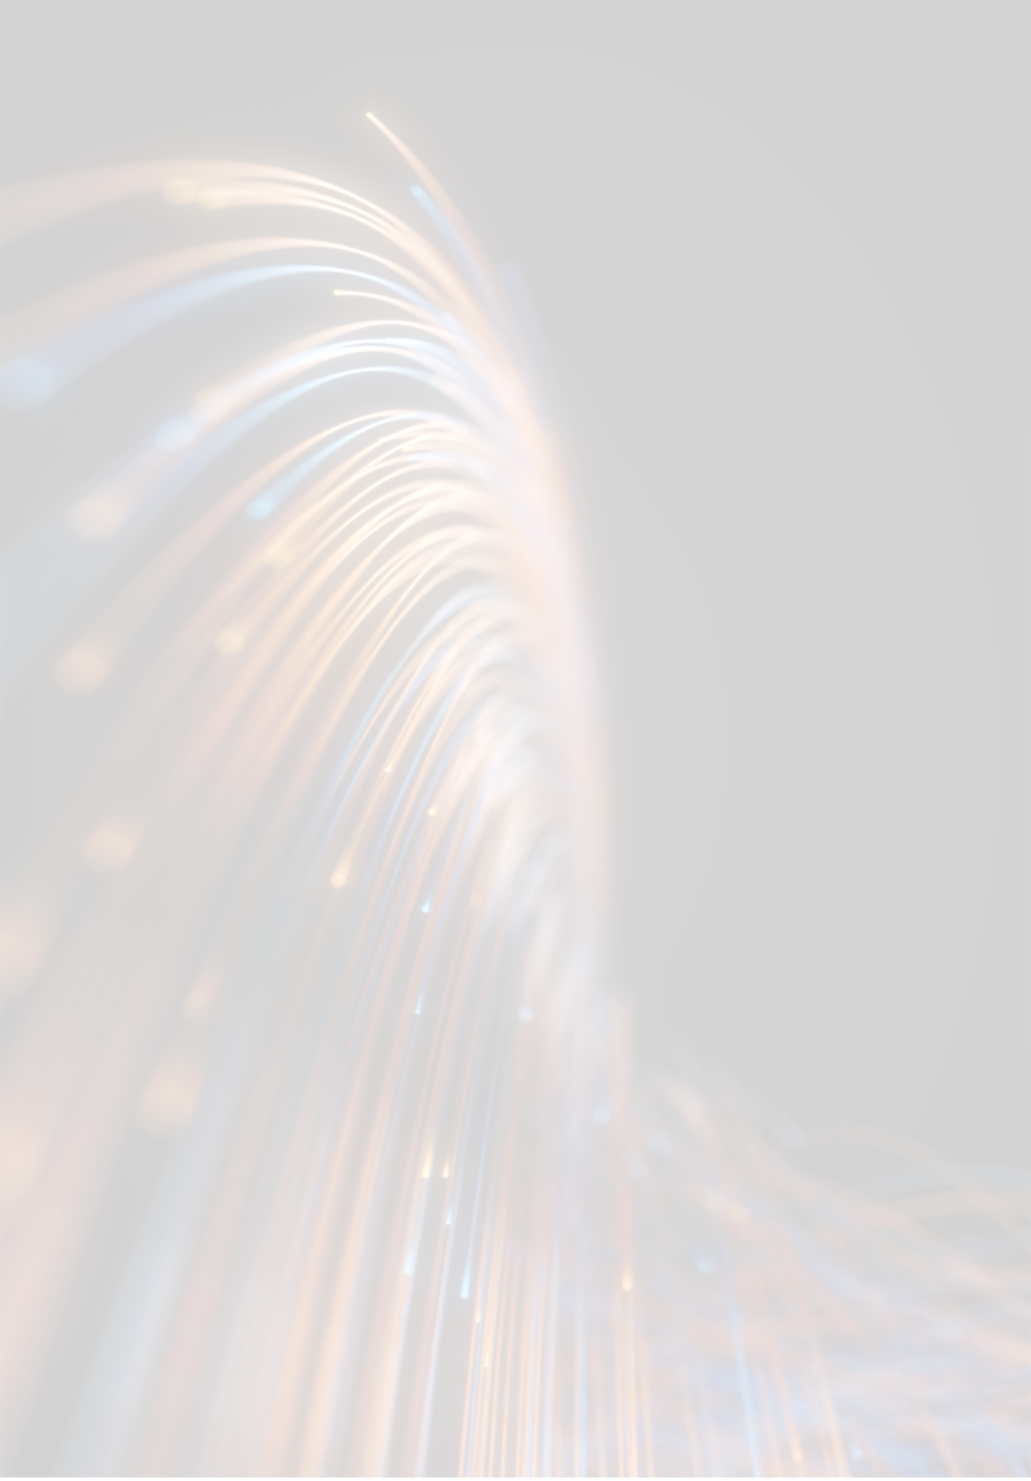
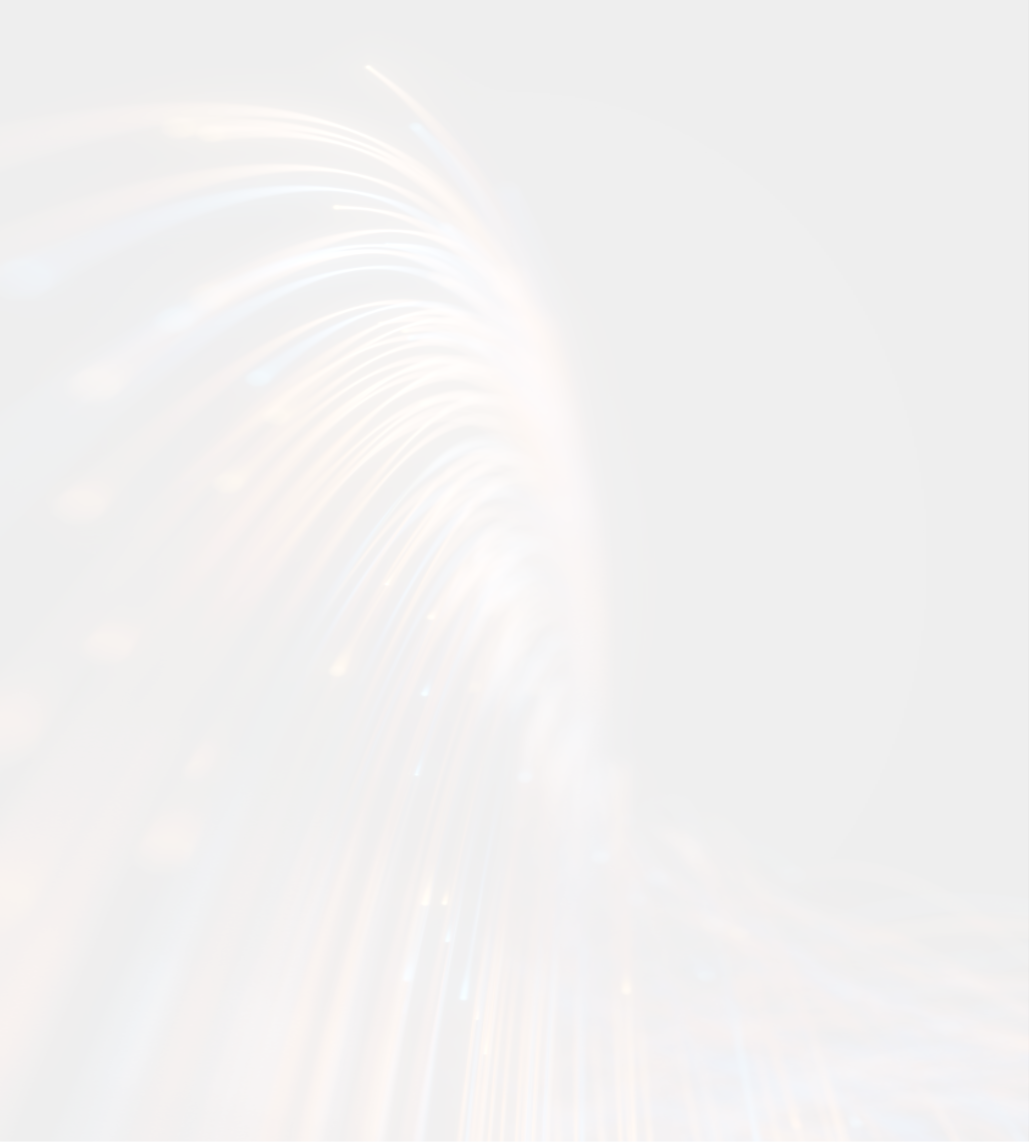
Look & feel

diff --git a/css/styles.css b/css/styles.css
@@ -17,13 +17,13 @@ html {
 
 body {
     font-family: "Scala Sans";
-    font-size: 16px;
+    font-size: 18px;
     margin: 0;
     padding: 0;
     width: 100%;
     height: 100%;
     background-color: #f6f6f6;
-    background: url(../img/background.png) no-repeat;
+    background: #fff url(../img/background.png) no-repeat;
     background-size: cover;
     background-attachment: fixed;
 }
@@ -177,9 +177,13 @@ blockquote label {
 }
 
 .instruction, .animation_image .label, .about {
-    font-size: 12px;
+    font-size: 14px;
     color: #444;
     text-align: center;
+}
+
+.about {
+    font-size: 16px;
 }
 
 .instruction i {
@@ -220,7 +224,7 @@ img.animation, img.play-animation, .animation_image .label {
     margin: 50px auto 0;
 }
 
-.box_media:after {
+/*.box_media:after {
     content: "";
     position: absolute;
     background: url(../img/media.svg) no-repeat;
@@ -230,7 +234,7 @@ img.animation, img.play-animation, .animation_image .label {
     width: 200px;
     height: 200px;
 }
-
+*/
 /********************************************************************************/
 /* DEVICE CONTROL
 /********************************************************************************/
@@ -255,13 +259,13 @@ main {
 }
 
 header {
-    background: transparent linear-gradient(90deg, #15104A 0%, #020306 100%) 0% 0% no-repeat padding-box;
+    background: #151C31;
     width: 100%;
     height: 100px;
 }
 
 header .logo img {
-    padding: 10px 40px;
+    padding: 30px 40px;
     float: left;
     width: 130px;
 }
@@ -316,7 +320,7 @@ nav.horizontal ul.menu > li {
     height: 15px;
     cursor: pointer;
     border: 1px solid #44A0BA;
-    background-color: #DBDBD3;
+    background-color: #fff;
     margin: 5px;
     border-radius: 5px;
 }
@@ -525,7 +529,7 @@ footer {
     text-align: center;
     max-width: 1200px;
     margin: auto;
-    background: transparent linear-gradient(90deg, #15104A 0%, #020306 100%) 0% 0% no-repeat padding-box;
+    background-color: #151C31;
     color: #fff;
 }
 
@@ -605,6 +609,10 @@ footer .globals .back {
 /********************************************************************************/
 .box-text .box_body {
     padding: 5px 50px 5px 15px;
+}
+
+.box-text a {
+    color: #fff;
 }
 
 .box-text {
@@ -1056,8 +1064,6 @@ div.iconvideo.active, button.iconvideo.active {
 
 .videobox {
     text-align: center;
-    max-width: 600px;
-    margin: auto;
 }
 
 .videobox > div {
@@ -1183,7 +1189,7 @@ sup.tooltip {
     border: 1px solid transparent;
     border-radius: 5px;
     background: transparent linear-gradient(90deg, #15104A 0%, #020306 100%) 0% 0% no-repeat padding-box;
-    text-align: right   ;
+    text-align: right;
 }
 
 .vertical-menu .chalkboard_vertical_items .chalkboard_vertical_item.active {
@@ -1585,7 +1591,6 @@ sup.tooltip {
     font-weight: bold;
     color: #000;
 }
-
 /********************************************************************************/
 /* VIEW FIRST - IMAGE CONTENT
 /********************************************************************************/
@@ -1683,24 +1688,47 @@ sup.tooltip {
 .box_end {
     text-align: center;
     padding: 10px;
-}
-
-.box_end:before, .box_end:after {
-    content: "";
-    display: inline-block;
+    width: 450px;
+    margin: 20px auto;
 }
 
 .box_end .correct, .box_end .wrong {
     padding: 10px;
+    border-radius: 5px;
+    margin-bottom: 20px;
+    border: 1px solid;
+    background-color: #fff;
+    padding-left: 50px;
+    position: relative;
+    min-height: 60px;
 }
 
 .box_end .correct {
-    color: #207D7E;
+    color: #39B54A;
+    border-color: #39B54A;
 }
 
+.box_end .correct:before, .box_end .wrong:before {
+    content: "";
+    position: absolute;
+    top: -3px;
+    left: -40px;
+    height: 100px;
+    width: 100px;
+    background-size: contain !important;
+}
+
+.box_end .correct:before {
+    background: url(../img/correct.svg) no-repeat -7px -7px;
+} 
 
 .box_end .wrong {
-    color: #D60C1B;
+    color: #C1272D;
+    border-color: #C1272D;
+}
+
+.box_end .wrong:before {
+    background: url(../img/wrong.svg) no-repeat -7px -7px;
 }
 
 .saving .activity_modal {
@@ -2587,10 +2615,6 @@ html.single h1 {
 /********************************************************************************/
 
 .page-index {
-    background: url(../img/bg-azul.png) no-repeat;
-    background-size: cover;
-    background-attachment: fixed;
-    color: #fff;
     padding: 30px;
 }
 
@@ -2602,7 +2626,7 @@ html.single h1 {
 }
 
 .page-index .objetivo-text {
-    color: #DBDBD3;
+    color: #151C31;
     border: 1px solid #44A0BA;
     border-radius: 5px;
     padding: 5px 20px;
@@ -2650,12 +2674,17 @@ html.single h1 {
     margin-bottom: 10px;
 }
 
-/*Tamaños*/
-.w-600 {
-    width: 600px;
-}
+.w-30 {width: 30%; max-width: 30% !important;}
+.w-40 {width: 40%; max-width: 40% !important;}
+.w-50 {width: 50%; max-width: 50% !important;}
+.w-60 {width: 60%; max-width: 60% !important;}
+.w-70 {width: 70%; max-width: 70% !important;}
+.w-80 {width: 80%; max-width: 80% !important;}
+.w-90 {width: 90%; max-width: 90% !important;}
+.w-100 {width: 100%; max-width: 100% !important;}
 
-.center {
-    margin: auto;
-    text-align: center;
-}
+.w-200 {width: 200px; max-width: 200px !important;}
+
+.float-right {float: right;}
+
+.ctrl-pagination .about {color: #fff;}

diff --git a/content.html b/content.html
@@ -82,7 +82,7 @@
     </style>
 
 </head>
-<body class="loading" data-debug="true" data-model="scorm" data-display-mode="onlypages" data-approve-limit="100" data-activities-percentaje="60" data-mobile-mode="512">
+<body class="loading" data-debug="true" data-model="scorm" data-display-mode="onlypages" data-approve-limit="100" data-activities-percentaje="40" data-mobile-mode="512">
     <div id="body" class="not_print">
         <div id="not_scorm_msg" style="display: none;"></div>
 

diff --git a/css/mobile.css b/css/mobile.css
@@ -33,7 +33,7 @@ body.dhbgapp_fullview {
 #body {
     clear: both;
     margin: auto;
-    padding: 0 0 60px;
+    padding: 0 0 80px;
     position: relative;
 }
 
